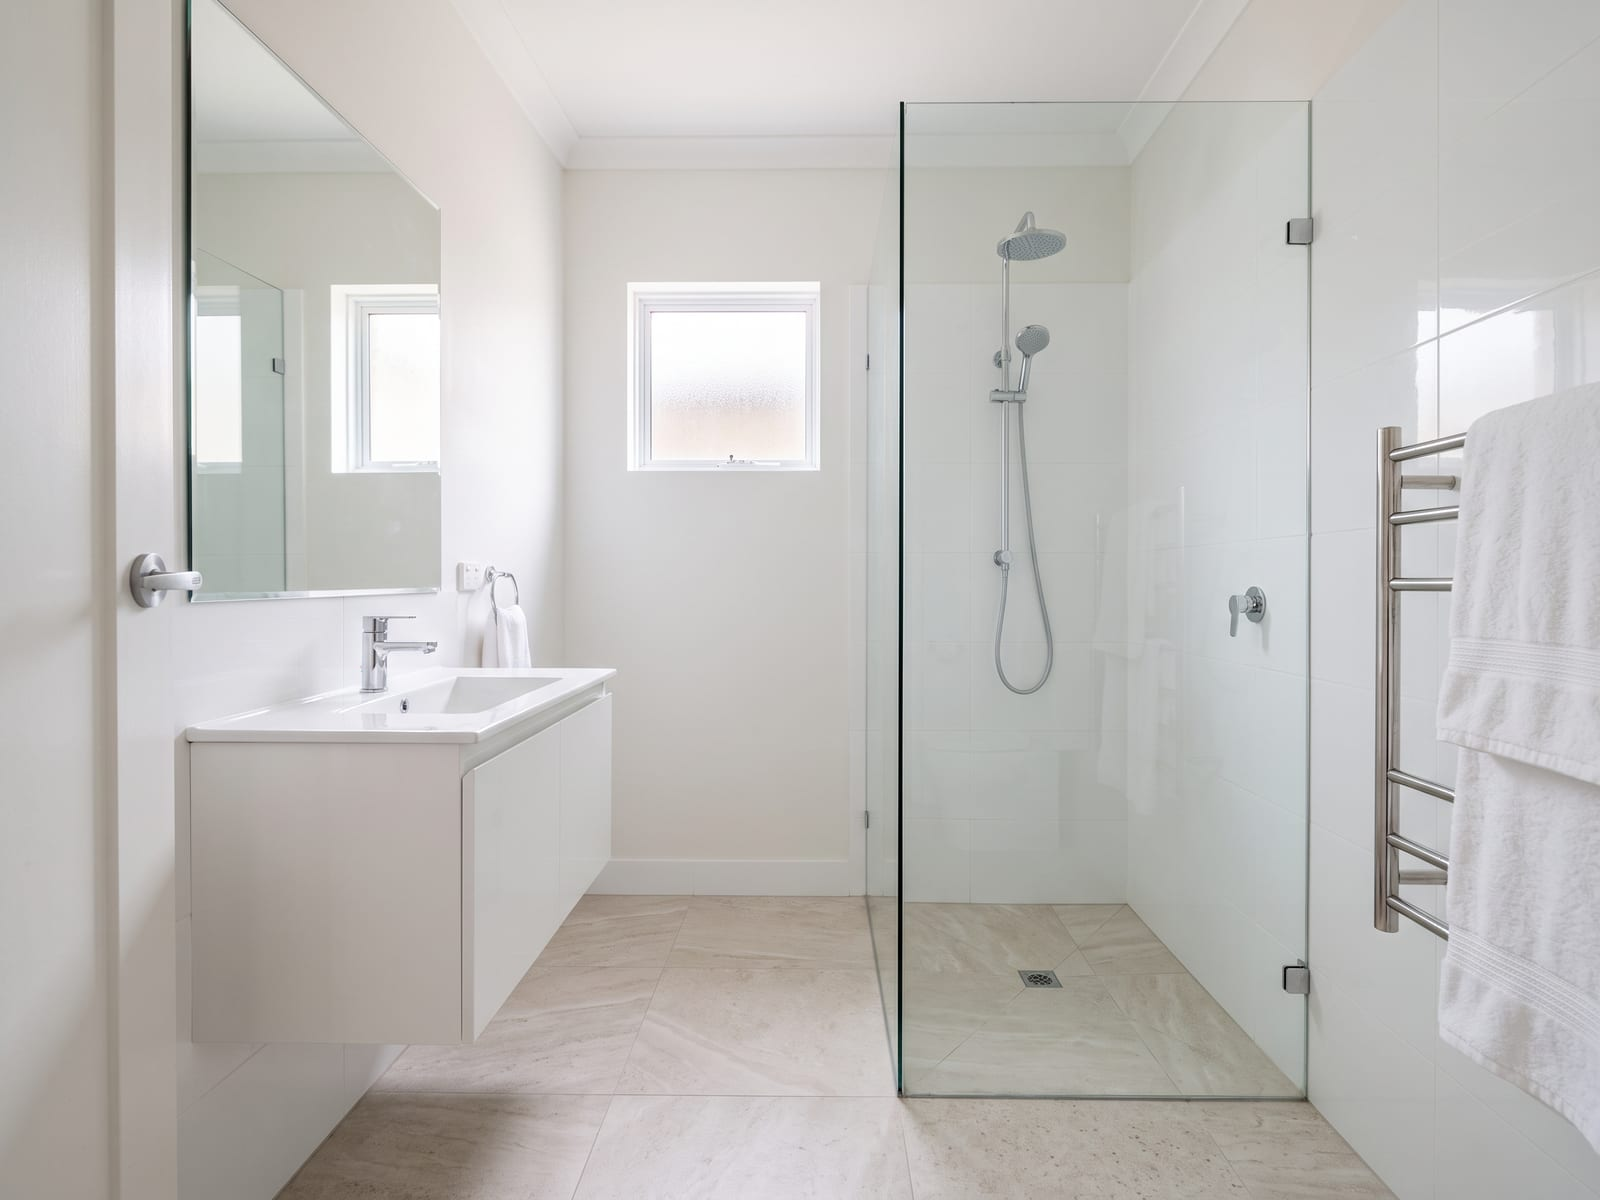
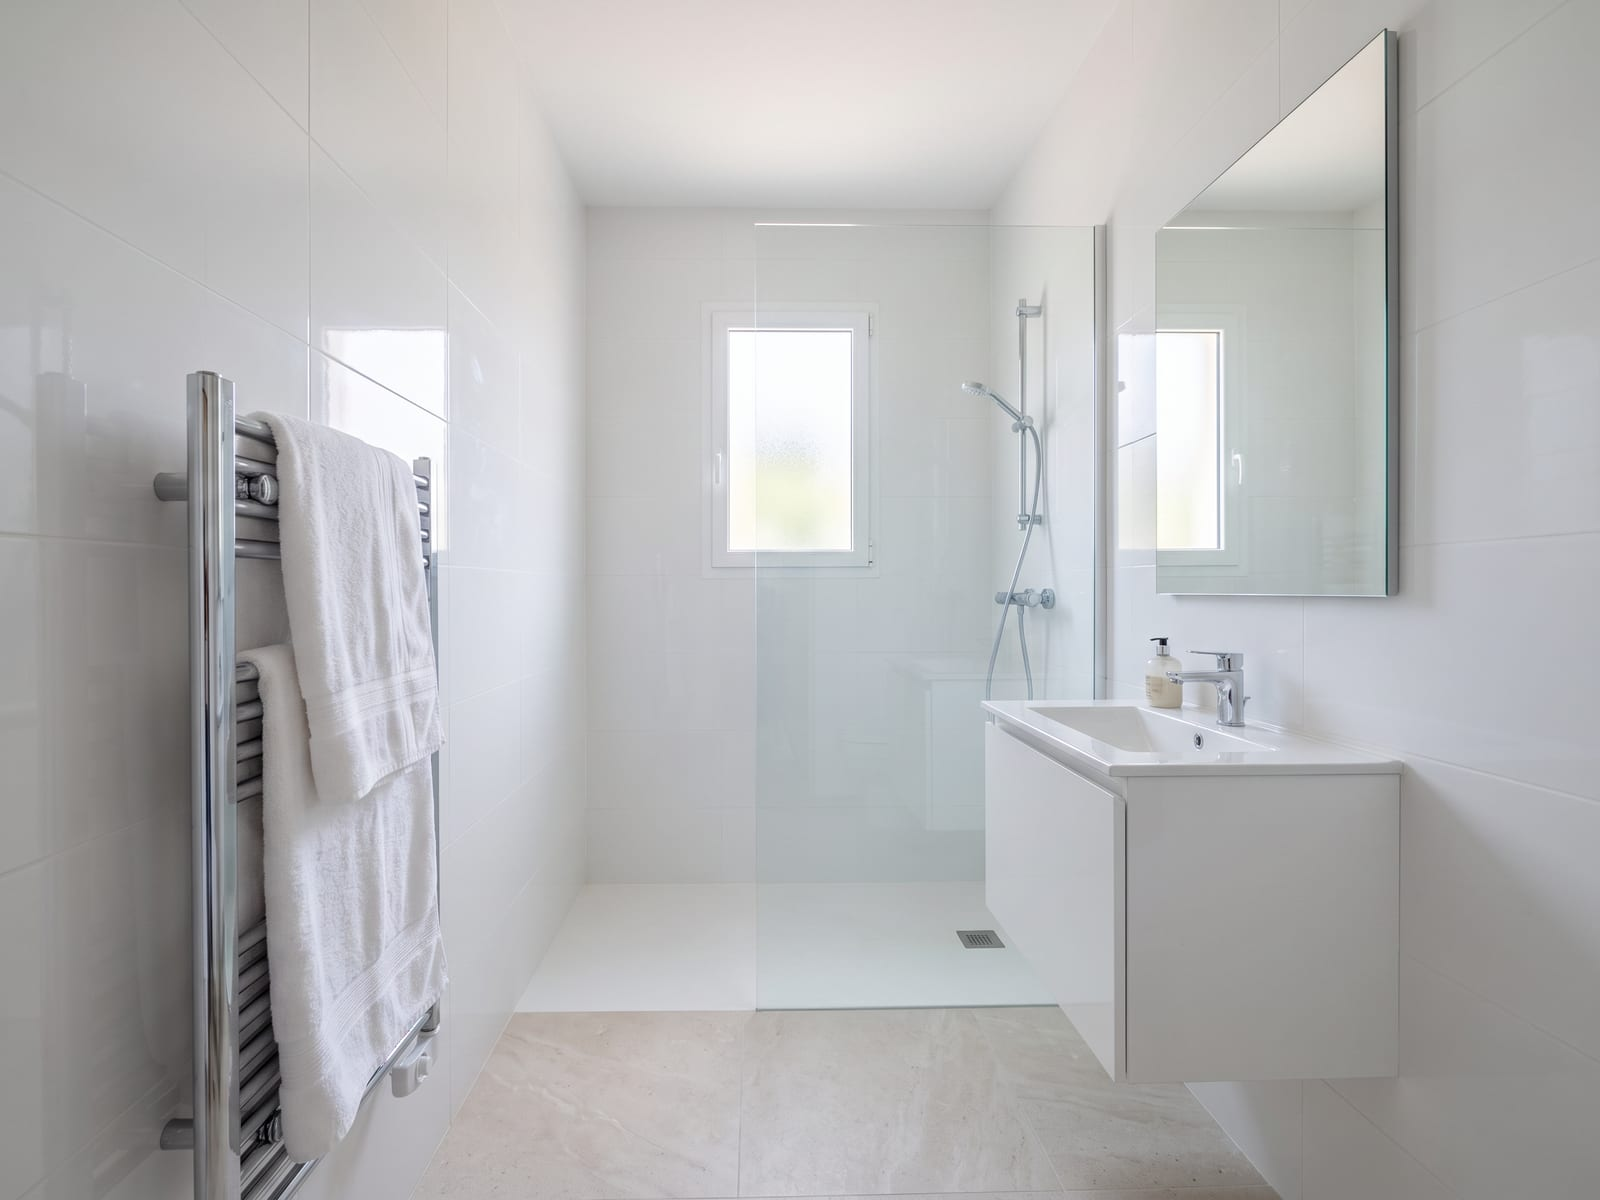
Mission 155 — la salle de bains d'Antibes, sans prise ni poignée

diff --git a/docs/DEMO.md b/docs/DEMO.md
@@ -144,10 +144,10 @@ façade), et un extérieur qui est bien celui de la façade.
 Une ligne par jeu déposé, exigée par les tests : le dossier, la source, l'auteur, la licence et
 la date de téléchargement (JJ/MM/AAAA).
 
-| Dossier                       | Bien                                  | Source                                                                                                                                                                                                                       | Auteur                 | Licence                                                                                                                  | Téléchargé le |
-| ----------------------------- | ------------------------------------- | ---------------------------------------------------------------------------------------------------------------------------------------------------------------------------------------------------------------------------- | ---------------------- | ------------------------------------------------------------------------------------------------------------------------ | ------------- |
-| `mandat-mougins-villa/`       | la villa de M. Lefebvre, Mougins      | Images générées par IA avec Runway (compte Start-academia), d'après la fiche photo ci-dessous : façade le 13/11/2026, autres vues le 14/11/2026 (séjour, cuisine, chambre, salle de bains et jardin régénérés le 14/11/2026) | Start Academy (Runway) | Conditions d'usage de Runway (« Usage rights », https://help.runwayml.com/hc/en-us/articles/18927776141715-Usage-rights) | 14/11/2026    |
-| `mandat-antibes-appartement/` | l'appartement de Mme Ferrand, Antibes | Images générées par IA avec Runway (compte Start-academia), d'après la fiche photo ci-dessous : façade le 13/11/2026, autres vues le 14/11/2026 (séjour, terrasse et salle de bains régénérés le 14/11/2026)                 | Start Academy (Runway) | Conditions d'usage de Runway (« Usage rights », https://help.runwayml.com/hc/en-us/articles/18927776141715-Usage-rights) | 14/11/2026    |
+| Dossier                       | Bien                                  | Source                                                                                                                                                                                                                                                        | Auteur                 | Licence                                                                                                                  | Téléchargé le |
+| ----------------------------- | ------------------------------------- | ------------------------------------------------------------------------------------------------------------------------------------------------------------------------------------------------------------------------------------------------------------- | ---------------------- | ------------------------------------------------------------------------------------------------------------------------ | ------------- |
+| `mandat-mougins-villa/`       | la villa de M. Lefebvre, Mougins      | Images générées par IA avec Runway (compte Start-academia), d'après la fiche photo ci-dessous : façade le 13/11/2026, autres vues le 14/11/2026 (séjour, cuisine, chambre, salle de bains et jardin régénérés le 14/11/2026)                                  | Start Academy (Runway) | Conditions d'usage de Runway (« Usage rights », https://help.runwayml.com/hc/en-us/articles/18927776141715-Usage-rights) | 14/11/2026    |
+| `mandat-antibes-appartement/` | l'appartement de Mme Ferrand, Antibes | Images générées par IA avec Runway (compte Start-academia), d'après la fiche photo ci-dessous : façade le 13/11/2026, autres vues le 14/11/2026 (séjour, terrasse et salle de bains régénérés le 14/11/2026, la salle de bains une seconde fois le même jour) | Start Academy (Runway) | Conditions d'usage de Runway (« Usage rights », https://help.runwayml.com/hc/en-us/articles/18927776141715-Usage-rights) | 14/11/2026    |
 
 ### Fiche — `mandat-mougins-villa` · la villa de M. Lefebvre (mandat signé)
 
